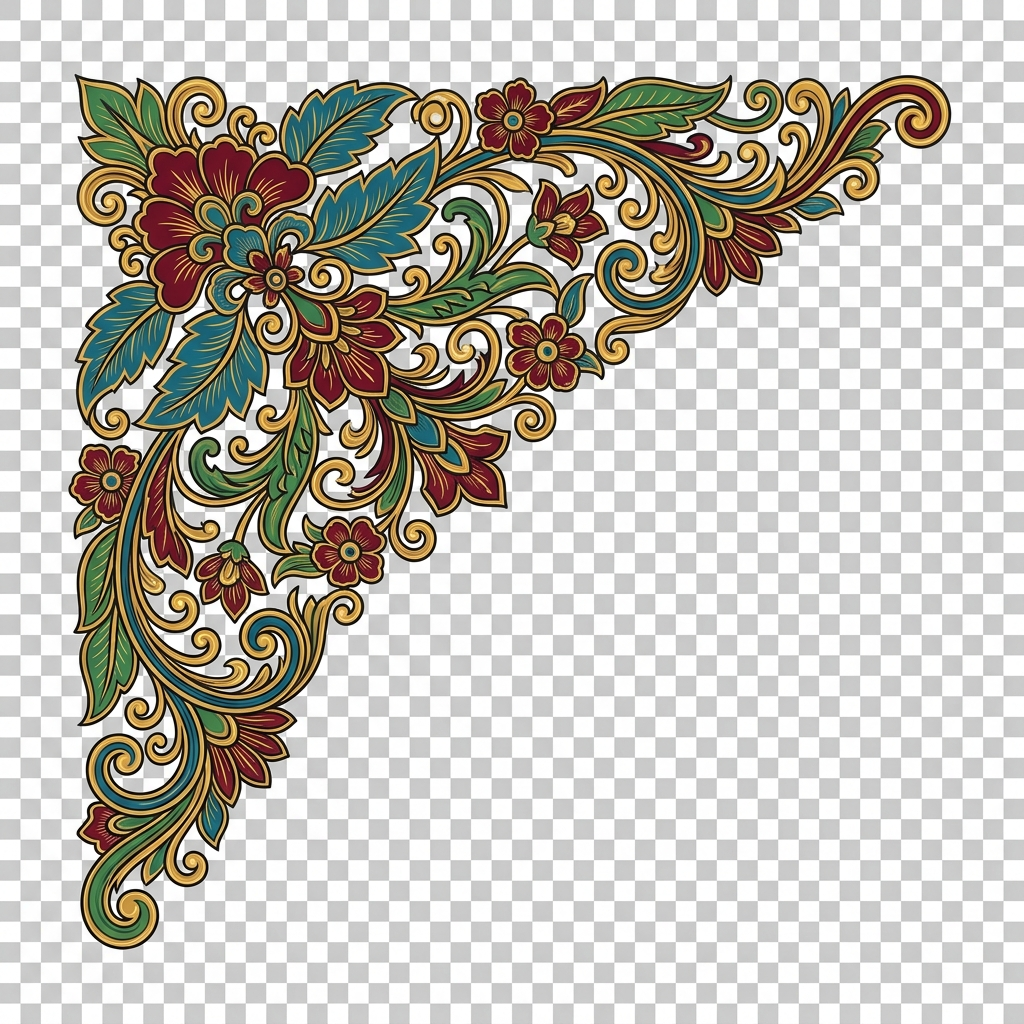
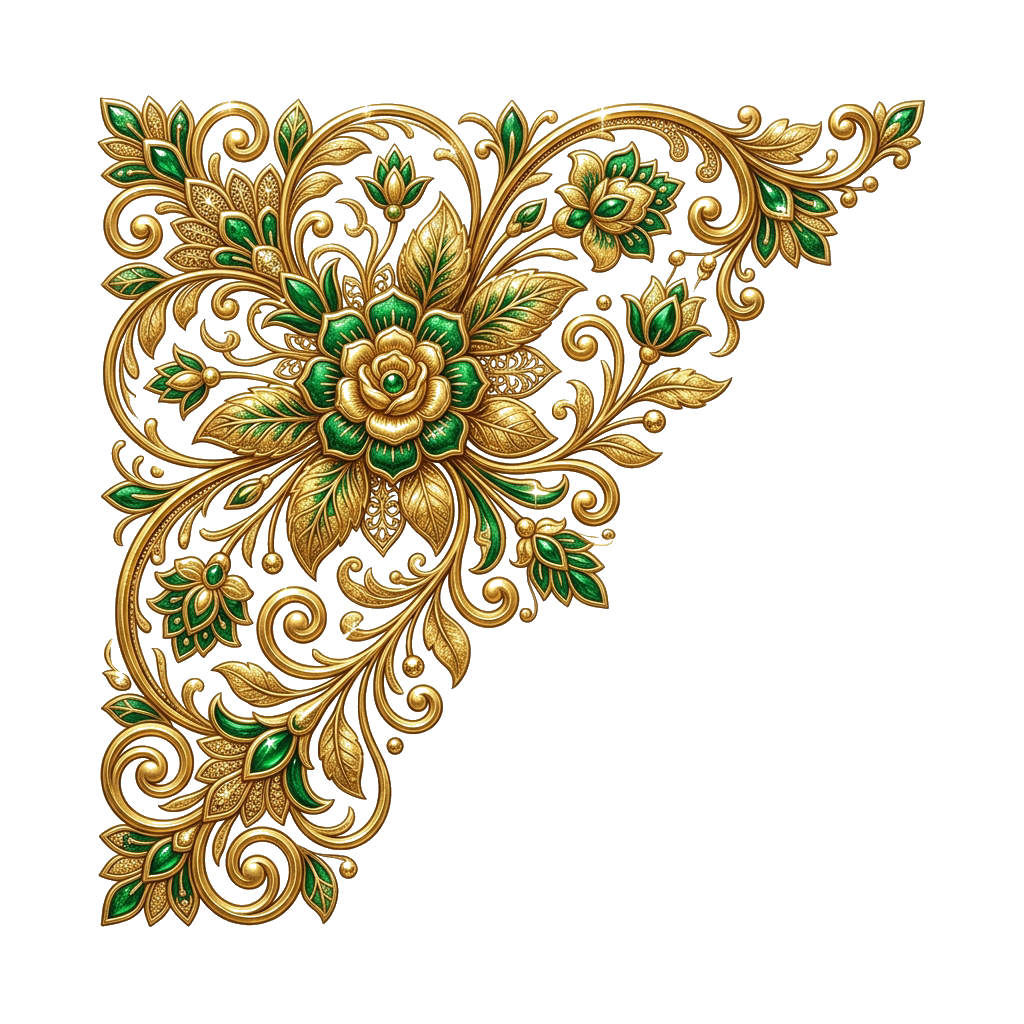
fix: make corner ornament truly transparent using jimp, change VIP text to gold

diff --git a/style.css b/style.css
@@ -234,7 +234,7 @@ img { max-width: 100%; height: auto; display: block; }
 .vip-guest {
     font-family: var(--font-body);
     font-size: 1.15rem;
-    color: #fff;
+    color: var(--gold-light);
     font-weight: 500;
     margin-bottom: 35px; /* Large gap before event text */
     line-height: 1.4;
@@ -253,7 +253,7 @@ img { max-width: 100%; height: auto; display: block; }
 .vip-name {
     font-family: var(--font-display);
     font-size: clamp(2.2rem, 8vw, 2.6rem);
-    color: #fff;
+    color: var(--gold-light);
     font-weight: 400; /* Lighter font weight */
     font-style: normal;
     line-height: 1.15;